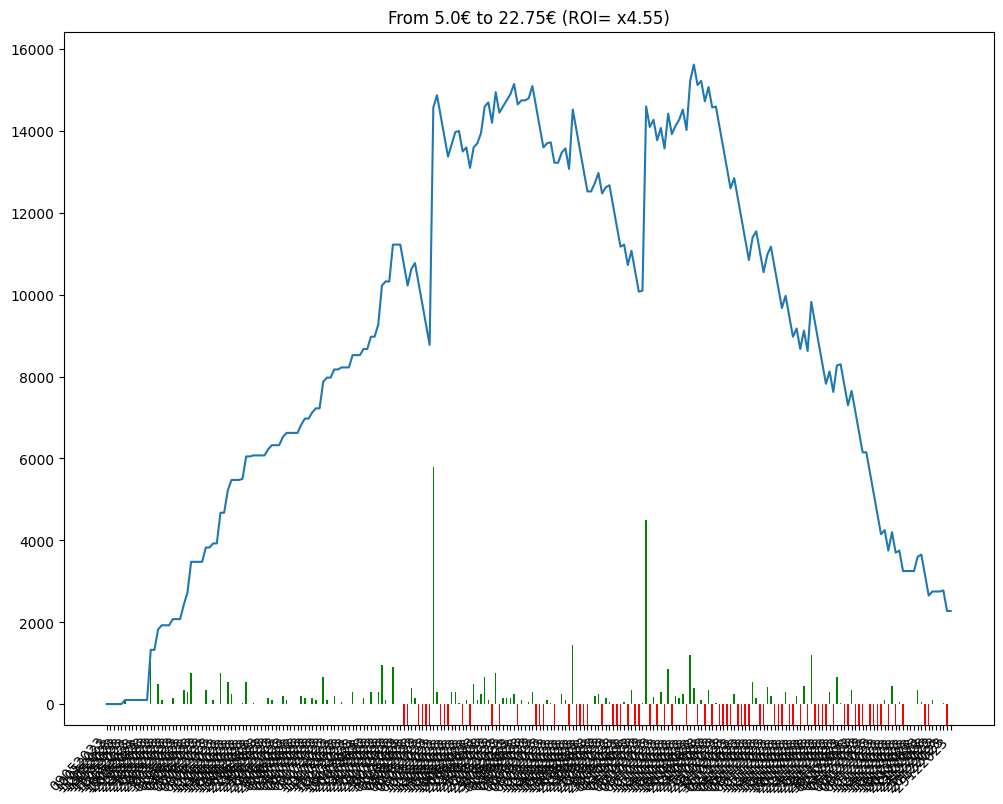
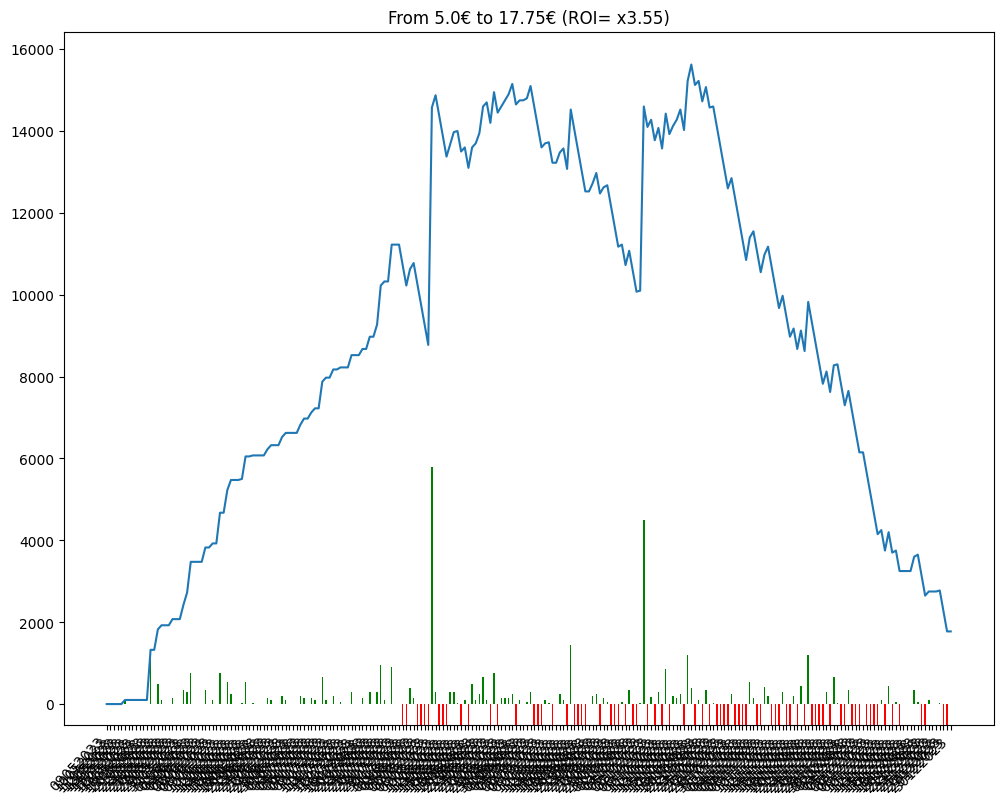
comment from python script

diff --git a/bethistory.html b/bethistory.html
@@ -86,7 +86,8 @@
             En observant la courbe 🤔, on peut avoir une idée visuelle de l'évolution des gains et ainsi évaluer le model utilisé 🧑🏫.
         </p>
         
-        <img src = "/candle.png" alt="candle chart"/><table><tr><td>Chevaux joués</td><td>Gains</td><td>URL Circuits</td></tr><tr><td>1 - MAGNOLIA MIDNIGHT</td><td>0</td><td><a href=https://www.pmu.fr/turf/29122023/r6/c7 target="_blank">https://www.pmu.fr/turf/29122023/r6/c7</a></td></tr>
+        <img src = "/candle.png" alt="candle chart"/><table><tr><td>Chevaux joués</td><td>Gains</td><td>URL Circuits</td></tr><tr><td>4 - MERLIN</td><td>0</td><td><a href=https://www.pmu.fr/turf/30122023/r2/c2 target="_blank">https://www.pmu.fr/turf/30122023/r2/c2</a></td></tr>
+<tr><td>1 - MAGNOLIA MIDNIGHT</td><td>-500</td><td><a href=https://www.pmu.fr/turf/29122023/r6/c7 target="_blank">https://www.pmu.fr/turf/29122023/r6/c7</a></td></tr>
 <tr><td>7 - WENGEN</td><td>-500</td><td><a href=https://www.pmu.fr/turf/27122023/r5/c10 target="_blank">https://www.pmu.fr/turf/27122023/r5/c10</a></td></tr>
 <tr><td>7 - JERCUTAY</td><td>+25</td><td><a href=https://www.pmu.fr/turf/26122023/r5/c8 target="_blank">https://www.pmu.fr/turf/26122023/r5/c8</a></td></tr>
 <tr><td>5 - HER MAJESTY</td><td>+100</td><td><a href=https://www.pmu.fr/turf/23122023/r5/c8 target="_blank">https://www.pmu.fr/turf/23122023/r5/c8</a></td></tr>
